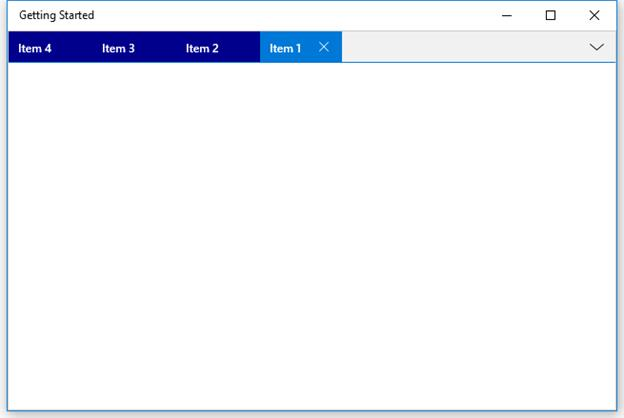
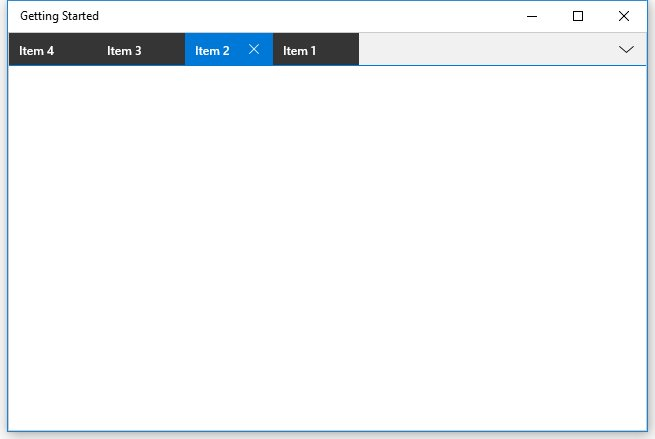
Images are modified as per the suggestion

Changed region(s): [[0.0, 0.0311, 0.5481, 0.1555], [0.0304, 0.9641, 1.0, 0.9952]]

diff --git a/uwp/SfDockingManager/Dealing-with-Windows.md b/uwp/SfDockingManager/Dealing-with-Windows.md
@@ -194,7 +194,7 @@ ForeColor and BackColor of Inactive document window can be customized using the 
 
 {% highlight XAML %}
 
-<layout:SfDockingManager x:Name="dockingmanager" DocumentTabItemBackground="DarkBlue" DocumentTabItemForeground="White">
+<layout:SfDockingManager x:Name="dockingmanager" DocumentTabItemBackground="#FF353535" DocumentTabItemForeground="White">
 
 <ContentControl layout:SfDockingManager.Header="Item 1" layout:SfDockingManager.DockState="Document"/>
 
@@ -220,7 +220,7 @@ Selected Document window can be customized using the property `DocumentTabItemBa
 
 {% highlight XAML %}
 
-<layout:SfDockingManager x:Name="dockingmanager" DocumentTabItemSelectedBackground="Green" DocumentTabItemSelectedForeground="Yellow" DocumentTabItemSelectedFontSize="20">
+<layout:SfDockingManager x:Name="dockingmanager" DocumentTabItemSelectedBackground="DarkBlue" DocumentTabItemSelectedForeground="White" DocumentTabItemSelectedFontSize="20">
 
 <ContentControl layout:SfDockingManager.Header="Item 1" layout:SfDockingManager.DockState="Document"/>
 
